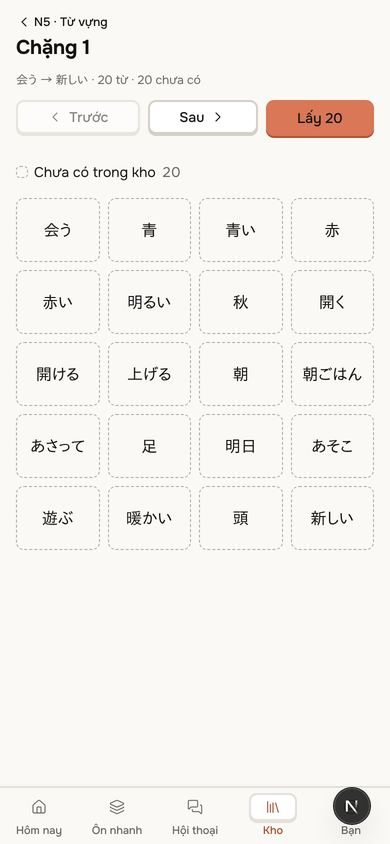
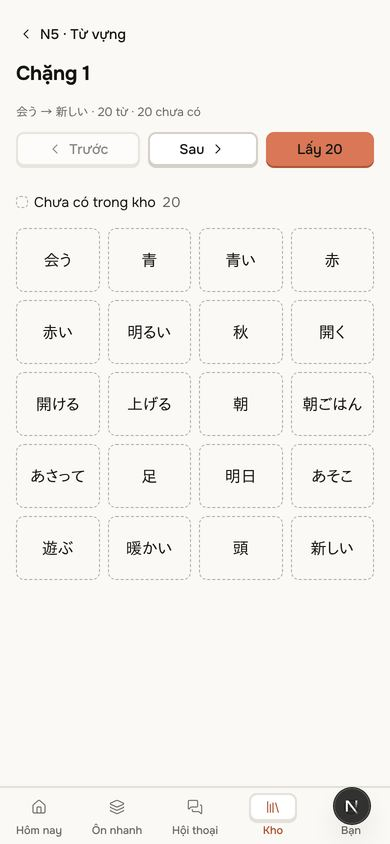
fix(ui): buttons in a row share one height; phone back gets its own row
A raw buttonVariants() class string kept both h-9 and the raised h-8.5,
so the take button stood 2px taller than its neighbours. A design test
now requires cn(). On a phone every way back is the flat 36px row the
item page has (thien, KN1 review round 2).

Claude-Nick: tnt628
Claude-Session: https://claude.ai/code/session_01LiS5Xo2gqsY9j6rXeQ42ti

diff --git a/components/layout/breadcrumbs.tsx b/components/layout/breadcrumbs.tsx
@@ -30,10 +30,9 @@ export function Breadcrumbs({
   /**
    * On a phone, one way back to the nearest parent in place of the trail (KN1,
    * docs/plans/2026-11-19-kho-navigation.md): a row of small crumbs was hard to read and to hit.
-   * `button` where the header has a 36px row for it (the detail header), `link` in the template's
-   * 16px trail line.
+   * The header gives it a 36px row of its own (PAGE_CHROME.phoneBack, DETAIL_CHROME.phoneTop).
    */
-  back?: 'button' | 'link';
+  back?: boolean;
 }) {
   if (items.length === 0) return null;
   const up = parentsOnly ? items[items.length - 1] : undefined;
@@ -47,7 +46,7 @@ export function Breadcrumbs({
       data-parents={parentsOnly || undefined}
       data-back={canGoBack || undefined}
     >
-      {up && canGoBack && <BackTo crumb={up} look={back!} />}
+      {up && canGoBack && <BackTo crumb={up} />}
       <ol className="flex flex-wrap items-center gap-x-1.5 gap-y-1 text-sm text-muted-foreground in-data-parents:text-xs in-data-back:max-md:hidden">
         {items.map((item, i) => {
           const last = !parentsOnly && i === items.length - 1;
@@ -121,9 +120,9 @@ export function BreadcrumbPlaceholder({ className }: { className?: string }) {
 }
 
 // Flat, not a raised button (thien, KN1 review): the chevron lines up with the page's left edge.
-const FLAT_BACK = 'max-w-full -translate-x-2 md:hidden';
+const FLAT_BACK = 'min-w-0 max-w-full -translate-x-2 md:hidden';
 
-function BackTo({ crumb, look }: { crumb: Crumb; look: 'button' | 'link' }) {
+function BackTo({ crumb }: { crumb: Crumb }) {
   const label = crumb.pending ? (
     <span data-pending className="relative inline-flex min-w-12">
       <span className="invisible">{crumb.label}</span>
@@ -132,34 +131,17 @@ function BackTo({ crumb, look }: { crumb: Crumb; look: 'button' | 'link' }) {
   ) : (
     <span className="truncate">{crumb.label}</span>
   );
-  if (look === 'button') {
-    const body = (
-      <>
-        <ChevronLeft data-icon="inline-start" aria-hidden />
-        {label}
-      </>
-    );
-    return crumb.pending || !crumb.href ? (
-      <span className={cn(buttonVariants({ variant: 'ghost' }), FLAT_BACK)}>{body}</span>
-    ) : (
-      <ButtonLink href={crumb.href} variant="ghost" className={FLAT_BACK}>
-        {body}
-      </ButtonLink>
-    );
-  }
-  const linkLook =
-    'target-44 inline-flex min-w-0 items-center gap-0.5 text-xs font-medium text-foreground md:hidden';
   const body = (
     <>
-      <ChevronLeft className="size-4 shrink-0" aria-hidden />
+      <ChevronLeft data-icon="inline-start" aria-hidden />
       {label}
     </>
   );
   return crumb.pending || !crumb.href ? (
-    <span className={linkLook}>{body}</span>
+    <span className={cn(buttonVariants({ variant: 'ghost' }), FLAT_BACK)}>{body}</span>
   ) : (
-    <Link href={crumb.href} className={linkLook}>
+    <ButtonLink href={crumb.href} variant="ghost" className={FLAT_BACK}>
       {body}
-    </Link>
+    </ButtonLink>
   );
 }

diff --git a/lib/design/component-standards.test.ts b/lib/design/component-standards.test.ts
@@ -92,6 +92,28 @@ describe('component standards', () => {
     ).toEqual([]);
   });
 
+  it('buttonVariants() is always passed through cn(), so a raised button is as tall as its row', () => {
+    // A raised button is 2px shorter than its size (h-8.5, with a 2px lip under it). The raw class
+    // string of buttonVariants() still holds the plain h-9 too, and CSS order lets h-9 win: the
+    // button stood 2px taller than the buttons beside it (thien, KN1 review 19/11, "đã gặp nhiều
+    // lần"). cn() merges the two and keeps the raised height.
+    const offenders: string[] = [];
+    for (const root of ['app', 'components']) {
+      for (const file of sources(root)) {
+        if (rel(file) === 'components/ui/button.tsx') continue;
+        readFileSync(file, 'utf8')
+          .split('\n')
+          .forEach((line, i) => {
+            for (const m of line.matchAll(/(cn\()?buttonVariants\(/g))
+              if (!m[1]) offenders.push(`${rel(file)}:${i + 1}  ${line.trim()}`);
+          });
+      }
+    }
+    expect(offenders, `Wrap it: cn(buttonVariants(...), ...):\n${offenders.join('\n')}`).toEqual(
+      [],
+    );
+  });
+
   it('presentational components live in components/, not inside a route file', () => {
     // app/ files are routes. A styled, reusable block defined inside one is invisible to every
     // other page — app/page.tsx carried its own SectionHeader for exactly this reason.

diff --git a/components/layout/page-chrome.ts b/components/layout/page-chrome.ts
@@ -19,8 +19,13 @@ export const PAGE_CHROME = {
   /** Phone only: the logo, which steps aside when the trail is a way back (thien, KN1 review). */
   phoneLogo: 'flex shrink-0 items-center group-has-[[data-back]]/row:hidden md:hidden',
   block: 'min-w-0 flex-1',
-  /** Phone only: the trail inside the title block, above the title. */
-  phoneTrail: 'mb-1 flex h-4 min-w-0 items-center md:hidden',
+  /** Phone only: the trail inside the title block, above the title; not when it is a way back. */
+  phoneTrail: 'mb-1 flex h-4 min-w-0 items-center has-[[data-back]]:hidden md:hidden',
+  /**
+   * Phone only: a way back gets a 36px row of its own above the title, the same flat back as the
+   * detail header's (thien, KN1 review round 2: the small line was hard to see).
+   */
+  phoneBack: 'hidden h-9 min-w-0 items-center max-md:has-[[data-back]]:flex',
   title: 'text-title break-words',
   meta: 'text-xs leading-4 text-muted-foreground md:mt-2',
   /** Phone, nested page: the trail holds the block's small line, so the meta drops below the row. */

diff --git a/components/layout/kho-trail.tsx b/components/layout/kho-trail.tsx
@@ -9,15 +9,7 @@ import { khoTrail, type KhoPlace, type TrailStep } from '@/lib/library/kho-trail
  * then `extra` (a record the screen acts on, like the group whose items it adds). On a phone it is
  * one way back to the nearest of them.
  */
-export function KhoTrail({
-  place,
-  extra = [],
-  back = 'link',
-}: {
-  place: KhoPlace;
-  extra?: TrailStep[];
-  back?: 'button' | 'link';
-}) {
+export function KhoTrail({ place, extra = [] }: { place: KhoPlace; extra?: TrailStep[] }) {
   const items: Crumb[] = [...khoTrail(place), ...extra].map((step) => ({
     label: step.label,
     href: step.href,
@@ -25,5 +17,5 @@ export function KhoTrail({
     icon: step.root ? Library : undefined,
     description: step.root ? 'Kho của bạn' : `Về ${step.label}`,
   }));
-  return <Breadcrumbs items={items} parentsOnly back={back} />;
+  return <Breadcrumbs items={items} parentsOnly back />;
 }

diff --git a/components/layout/page-skeleton.tsx b/components/layout/page-skeleton.tsx
@@ -138,6 +138,7 @@ export function PageSkeleton({
         <div className={PAGE_CHROME.header}>
           <div className={PAGE_CHROME.stack}>
             {trail && <div className={PAGE_CHROME.trail}>{trail}</div>}
+            {trail && <div className={PAGE_CHROME.phoneBack}>{trail}</div>}
             <div data-slot="header-row" className={PAGE_CHROME.row}>
               <div className={PAGE_CHROME.phoneLogo}>
                 <Skeleton className="size-9 rounded-sm" />

diff --git a/components/layout/page-shell.tsx b/components/layout/page-shell.tsx
@@ -99,6 +99,7 @@ export function PageShell({
         <header className={PAGE_CHROME.header}>
           <div className={PAGE_CHROME.stack}>
             {breadcrumb && <div className={PAGE_CHROME.trail}>{breadcrumb}</div>}
+            {breadcrumb && <div className={PAGE_CHROME.phoneBack}>{breadcrumb}</div>}
             <div data-slot="header-row" className={PAGE_CHROME.row}>
               <div className={PAGE_CHROME.phoneLogo}>
                 <MobileTopBar />

diff --git a/components/features/resources/set-screen-view.tsx b/components/features/resources/set-screen-view.tsx
@@ -48,7 +48,7 @@ export function SetScreenView({
           <Neighbour to={prev} ctx={ctx} side="prev" />
           <Neighbour to={next} ctx={ctx} side="next" />
           {action?.take ? (
-            <TakeLevelTrigger ctx={ctx} scope={action.take} className={buttonVariants()}>
+            <TakeLevelTrigger ctx={ctx} scope={action.take} className={cn(buttonVariants())}>
               {action.label}
             </TakeLevelTrigger>
           ) : (

diff --git a/app/resources/[id]/loading.tsx b/app/resources/[id]/loading.tsx
@@ -25,7 +25,7 @@ export default function Loading() {
   return (
     <PageSkeleton
       template="detail"
-      trail={<KhoTrail place={{ way: 'pending' }} back="button" />}
+      trail={<KhoTrail place={{ way: 'pending' }} />}
       title={<SkeletonText text="〜ばかりに" />}
       facts={[
         { label: 'Cấp độ', value: 'N2' },

diff --git a/components/features/resources/item-analytics.tsx b/components/features/resources/item-analytics.tsx
@@ -129,7 +129,7 @@ export function ItemAnalytics({
     <Tabs value={tab} onValueChange={setTab}>
       <PageShell
         template="detail"
-        breadcrumb={<KhoTrail place={place} back="button" />}
+        breadcrumb={<KhoTrail place={place} />}
         title={
           <SpokenLine
             text={stats.expression}

diff --git a/docs/plans/2026-11-19-kho-navigation.md b/docs/plans/2026-11-19-kho-navigation.md
@@ -6,7 +6,7 @@ Luật ghi file này ở `profile/PLANNING.md` của repo thienai-workflow. Tick
 
 ## Đang ở đâu
 
-- Đang ở: KN1 (đường dẫn đúng và nút quay lại), code xong ở #344, vòng 1 thien cần sửa 7 màn (đã sửa), chờ duyệt vòng 2: https://claude.ai/artifact/9kztWwQ2TK7XQENUGCMuFL (mở ở nick tnt628).
+- Đang ở: KN1 (đường dẫn đúng và nút quay lại), code xong ở #344, vòng 1 thien cần sửa 7 màn (đã sửa), vòng 2 cần sửa 4 màn (đã sửa), chờ duyệt vòng 3: https://claude.ai/artifact/9QHgBtnMk1q8W5GrXYLdxn (mở ở nick tnt628).
 - Còn thiếu: KN1, KN2, KN3.
 - thien cần làm: duyệt ảnh của từng bước khi được gửi.
 
@@ -84,11 +84,12 @@ Xong khi: bấm tab Kho trên điện thoại ra trang 5 ngả (kèm số mục)
 
 ## Đã đổi
 
-| Ngày  | Đổi gì                                                                                                            | Vì sao                                                                                                                                                                                                              |
-| ----- | ----------------------------------------------------------------------------------------------------------------- | ------------------------------------------------------------------------------------------------------------------------------------------------------------------------------------------------------------------- |
-| 19/11 | Chọn C thay vì B AI đề xuất                                                                                       | thien chọn trên trang chọn                                                                                                                                                                                          |
-| 19/11 | Đường dẫn theo chỗ của màn trong cây Kho, không theo đường đã đi như bản A tả                                     | Một mục tới được từ nhiều nơi (ô tìm, nhóm, Mọi mục, Kho chung); chỗ cố định thì đường dẫn đoán trước được, còn về đúng màn vừa rời đã có nút Back của trình duyệt. Thấy khó dùng thì thêm lối "về chỗ vừa rời" sau |
-| 19/11 | Điện thoại: màn có lối quay lại thì bỏ logo của app; nút quay lại ở trang mục phẳng; nút chặng chỉ ghi Trước, Sau | thien duyệt ảnh KN1 vòng 1                                                                                                                                                                                          |
+| Ngày  | Đổi gì                                                                                                                                                                 | Vì sao                                                                                                                                                                                                              |
+| ----- | ---------------------------------------------------------------------------------------------------------------------------------------------------------------------- | ------------------------------------------------------------------------------------------------------------------------------------------------------------------------------------------------------------------- |
+| 19/11 | Chọn C thay vì B AI đề xuất                                                                                                                                            | thien chọn trên trang chọn                                                                                                                                                                                          |
+| 19/11 | Đường dẫn theo chỗ của màn trong cây Kho, không theo đường đã đi như bản A tả                                                                                          | Một mục tới được từ nhiều nơi (ô tìm, nhóm, Mọi mục, Kho chung); chỗ cố định thì đường dẫn đoán trước được, còn về đúng màn vừa rời đã có nút Back của trình duyệt. Thấy khó dùng thì thêm lối "về chỗ vừa rời" sau |
+| 19/11 | Điện thoại: màn có lối quay lại thì bỏ logo của app; nút quay lại ở trang mục phẳng; nút chặng chỉ ghi Trước, Sau                                                      | thien duyệt ảnh KN1 vòng 1                                                                                                                                                                                          |
+| 19/11 | Nút cùng hàng phải cùng chiều cao (test `buttonVariants() is always passed through cn()`); lối quay lại trên điện thoại ở mọi màn là một hàng riêng 36px như trang mục | thien duyệt ảnh KN1 vòng 2                                                                                                                                                                                          |
 
 ## Lỗi gặp
 

diff --git a/docs/plans/2026-11-19-kho-navigation/kn1/README.md b/docs/plans/2026-11-19-kho-navigation/kn1/README.md
@@ -3,7 +3,8 @@
 Trang duyệt (mở ở nick tnt628):
 
 - Vòng 1 (`round.json`, `sakubun-kn1-r1`): https://claude.ai/artifact/AuzSsZe1wWUSKG2cfJ9Lu9. Kết quả 19/11: 5 màn OK (mục có cấp 1440 và 390, mục ngoài JLPT 1440, kanji 1440, Kho chung 1440), 7 màn Cần sửa. Ghi chú chung: "mình nghĩ ở trên điện thoại không cần trang nào cũng cho logo của app". Comment ghim: trang mục điện thoại "không cần logo chỉ nút quay lại và nút quay lại cũng không cần nổi"; màn chặng laptop "bỏ chữ chặng đi" ở nút Chặng trước, Chặng sau. Màn Một nguồn ngoài JLPT 1440 Cần sửa mà không có ghi chú.
-- Vòng 2 (`round2.json`, `sakubun-kn1-r2`, chỉ 7 màn Cần sửa): https://claude.ai/artifact/9kztWwQ2TK7XQENUGCMuFL. Ảnh `*__new.jpg` ở đây là bản vòng 2.
+- Vòng 2 (`round2.json`, `sakubun-kn1-r2`, chỉ 7 màn Cần sửa): https://claude.ai/artifact/9kztWwQ2TK7XQENUGCMuFL. Kết quả 19/11: mục ngoài JLPT 390 OK; Cần sửa: màn chặng 1440 và 390 ("các nút không đồng bộ nhau"), nguồn ngoài JLPT 390, kanji 390, Kho chung 390. Ghi chú chung: "ở các nút quay lại cho thêm icon và điều chỉnh cho nó dễ thấy chút và các nút cùng hàng thì phải cùng chiều cao… điều này đã gặp nhiều lần ở app rồi mà vẫn chưa chữa được". Màn nguồn ngoài JLPT 1440 để "Chưa xem", thích bản main.
+- Vòng 3 (`round3.json`, `sakubun-kn1-r3`, 5 màn): https://claude.ai/artifact/9QHgBtnMk1q8W5GrXYLdxn. Ảnh `*__new.jpg` ở đây là bản vòng 3.
 
 Dựng lại ở nick khác:
 
